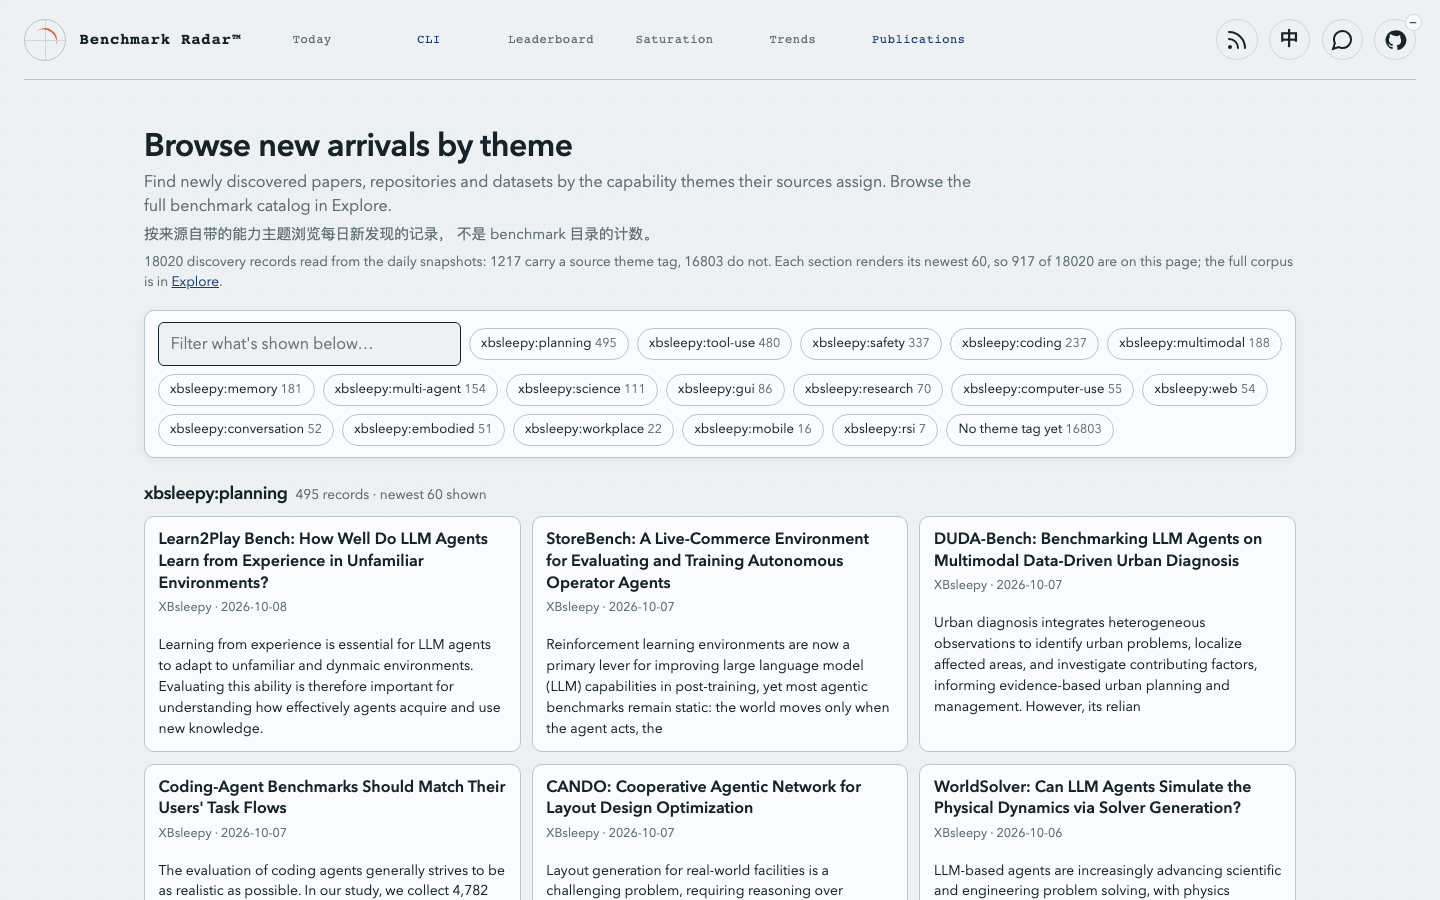
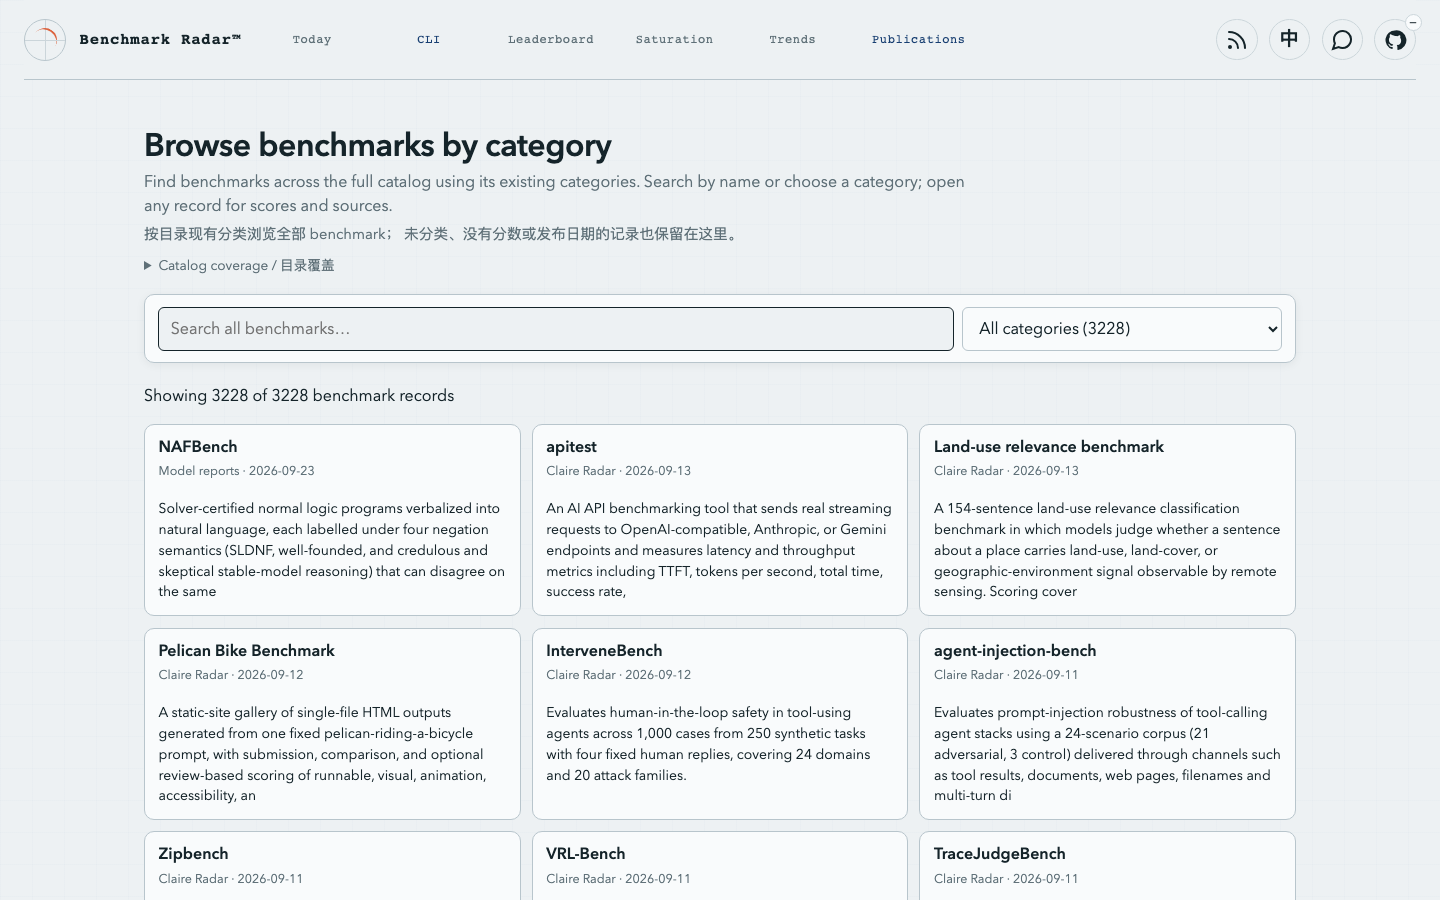
test(themes): verify full catalog coverage and refresh category screenshots

Changed region(s): [[0.0938, 0.1244, 0.9062, 0.6844], [0.3438, 0.56, 0.9062, 1.0], [0.0938, 0.6844, 0.3438, 0.9956]]

diff --git a/tests/test_themes.py b/tests/test_themes.py
@@ -134,3 +134,20 @@ def test_footer_link_is_required(tmp_path):
     linkless = DASHBOARD_HTML.replace('<a href="/themes/" data-i18n="Themes">Themes</a>', "")
     with pytest.raises(ValueError):
         write_themes(tmp_path, catalog_path=path, dashboard_html=linkless, app_js=APP_JS)
+
+
+def test_generated_page_covers_the_fresh_unified_catalog(tmp_path):
+    catalog_path = SITE_DIR / "data" / "benchmark-index.json"
+    catalog = json.loads(catalog_path.read_text())
+    assert len(catalog["benchmarks"]) >= 1259
+    assert len({row["source"] for row in catalog["benchmarks"]}) >= 4
+    report = write_themes(
+        tmp_path, catalog_path=catalog_path, dashboard_html=DASHBOARD_HTML, app_js=APP_JS
+    )
+    page = (tmp_path / "themes" / "index.html").read_text()
+    assert report["records"] == report["rendered"] == catalog["count"]
+    assert sum(report["source_counts"].values()) == catalog["count"]
+    assert page.count('class="theme-card"') == catalog["count"]
+    assert set(re.findall(r'data-record="([^"]+)"', page)) == {
+        row["key"] for row in catalog["benchmarks"]
+    }

diff --git a/assets/use-case-380/README.md b/assets/use-case-380/README.md
@@ -1,0 +1,24 @@
+# Full-catalog category browser
+
+These screenshots show the production `/themes/` generator after a clean
+`normalize-catalog` build. They use the unified `benchmark-index.json`, not a
+digest replay or discovery snapshots. The page preserves the catalog's existing
+categories without introducing a new taxonomy.
+
+- `themes-page.png`: desktop arrival, 1440 × 900.
+- `themes-page-pinned.png`: desktop with the existing `Agents` category selected,
+  showing 197 matching source records.
+- `themes-page-mobile.png`: mobile arrival, 390 × 844.
+
+All captures use device scale factor 1 and the site's shared design tokens.
+
+The rebuilt catalog contains 3,228 records across five sources: 687 LLM Stats,
+25 Artificial Analysis, 1,914 Claire Radar, 141 Model reports, and 461
+OpenCompass Hub records. All 3,228 records render once; 3,224 have categories
+and four remain visible as uncategorized. Categories overlap; their counts are
+not additive. There is no record cap or omitted-record trim.
+
+Browser checks verified the rendered ID set against the complete generated
+catalog, category membership, the four uncategorized records, full-catalog
+search, no-match feedback, filter reset, and no horizontal overflow or script
+errors at either viewport. Every card links to its catalog detail page.
